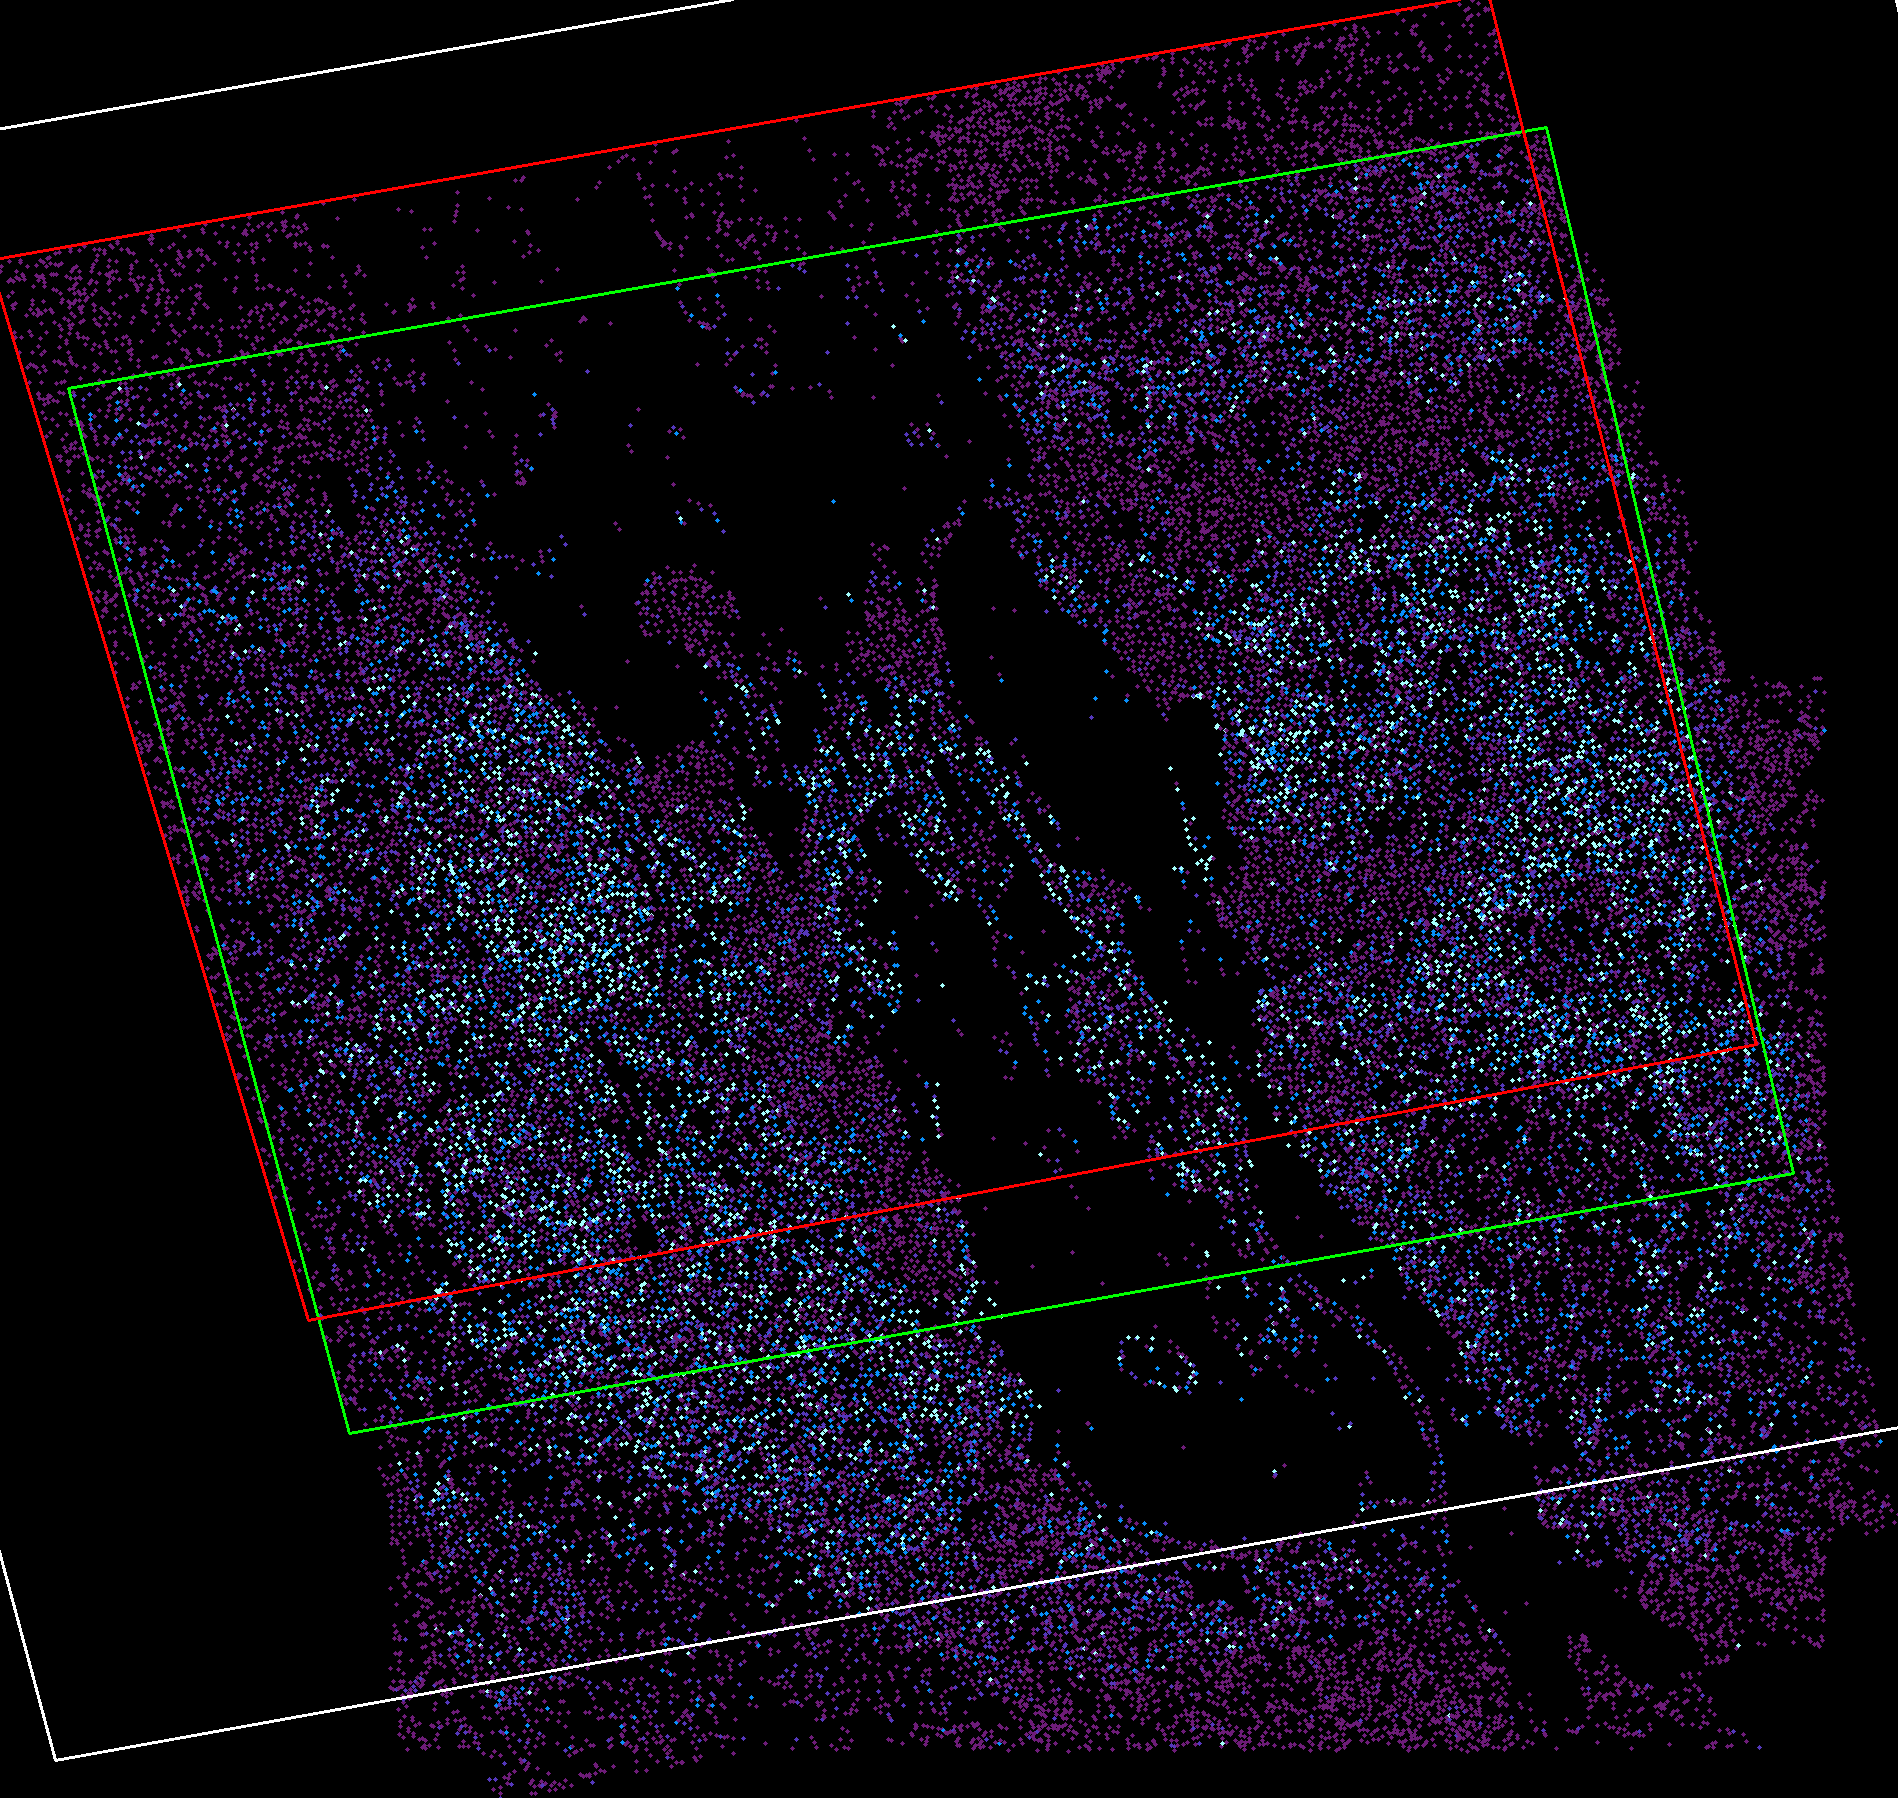
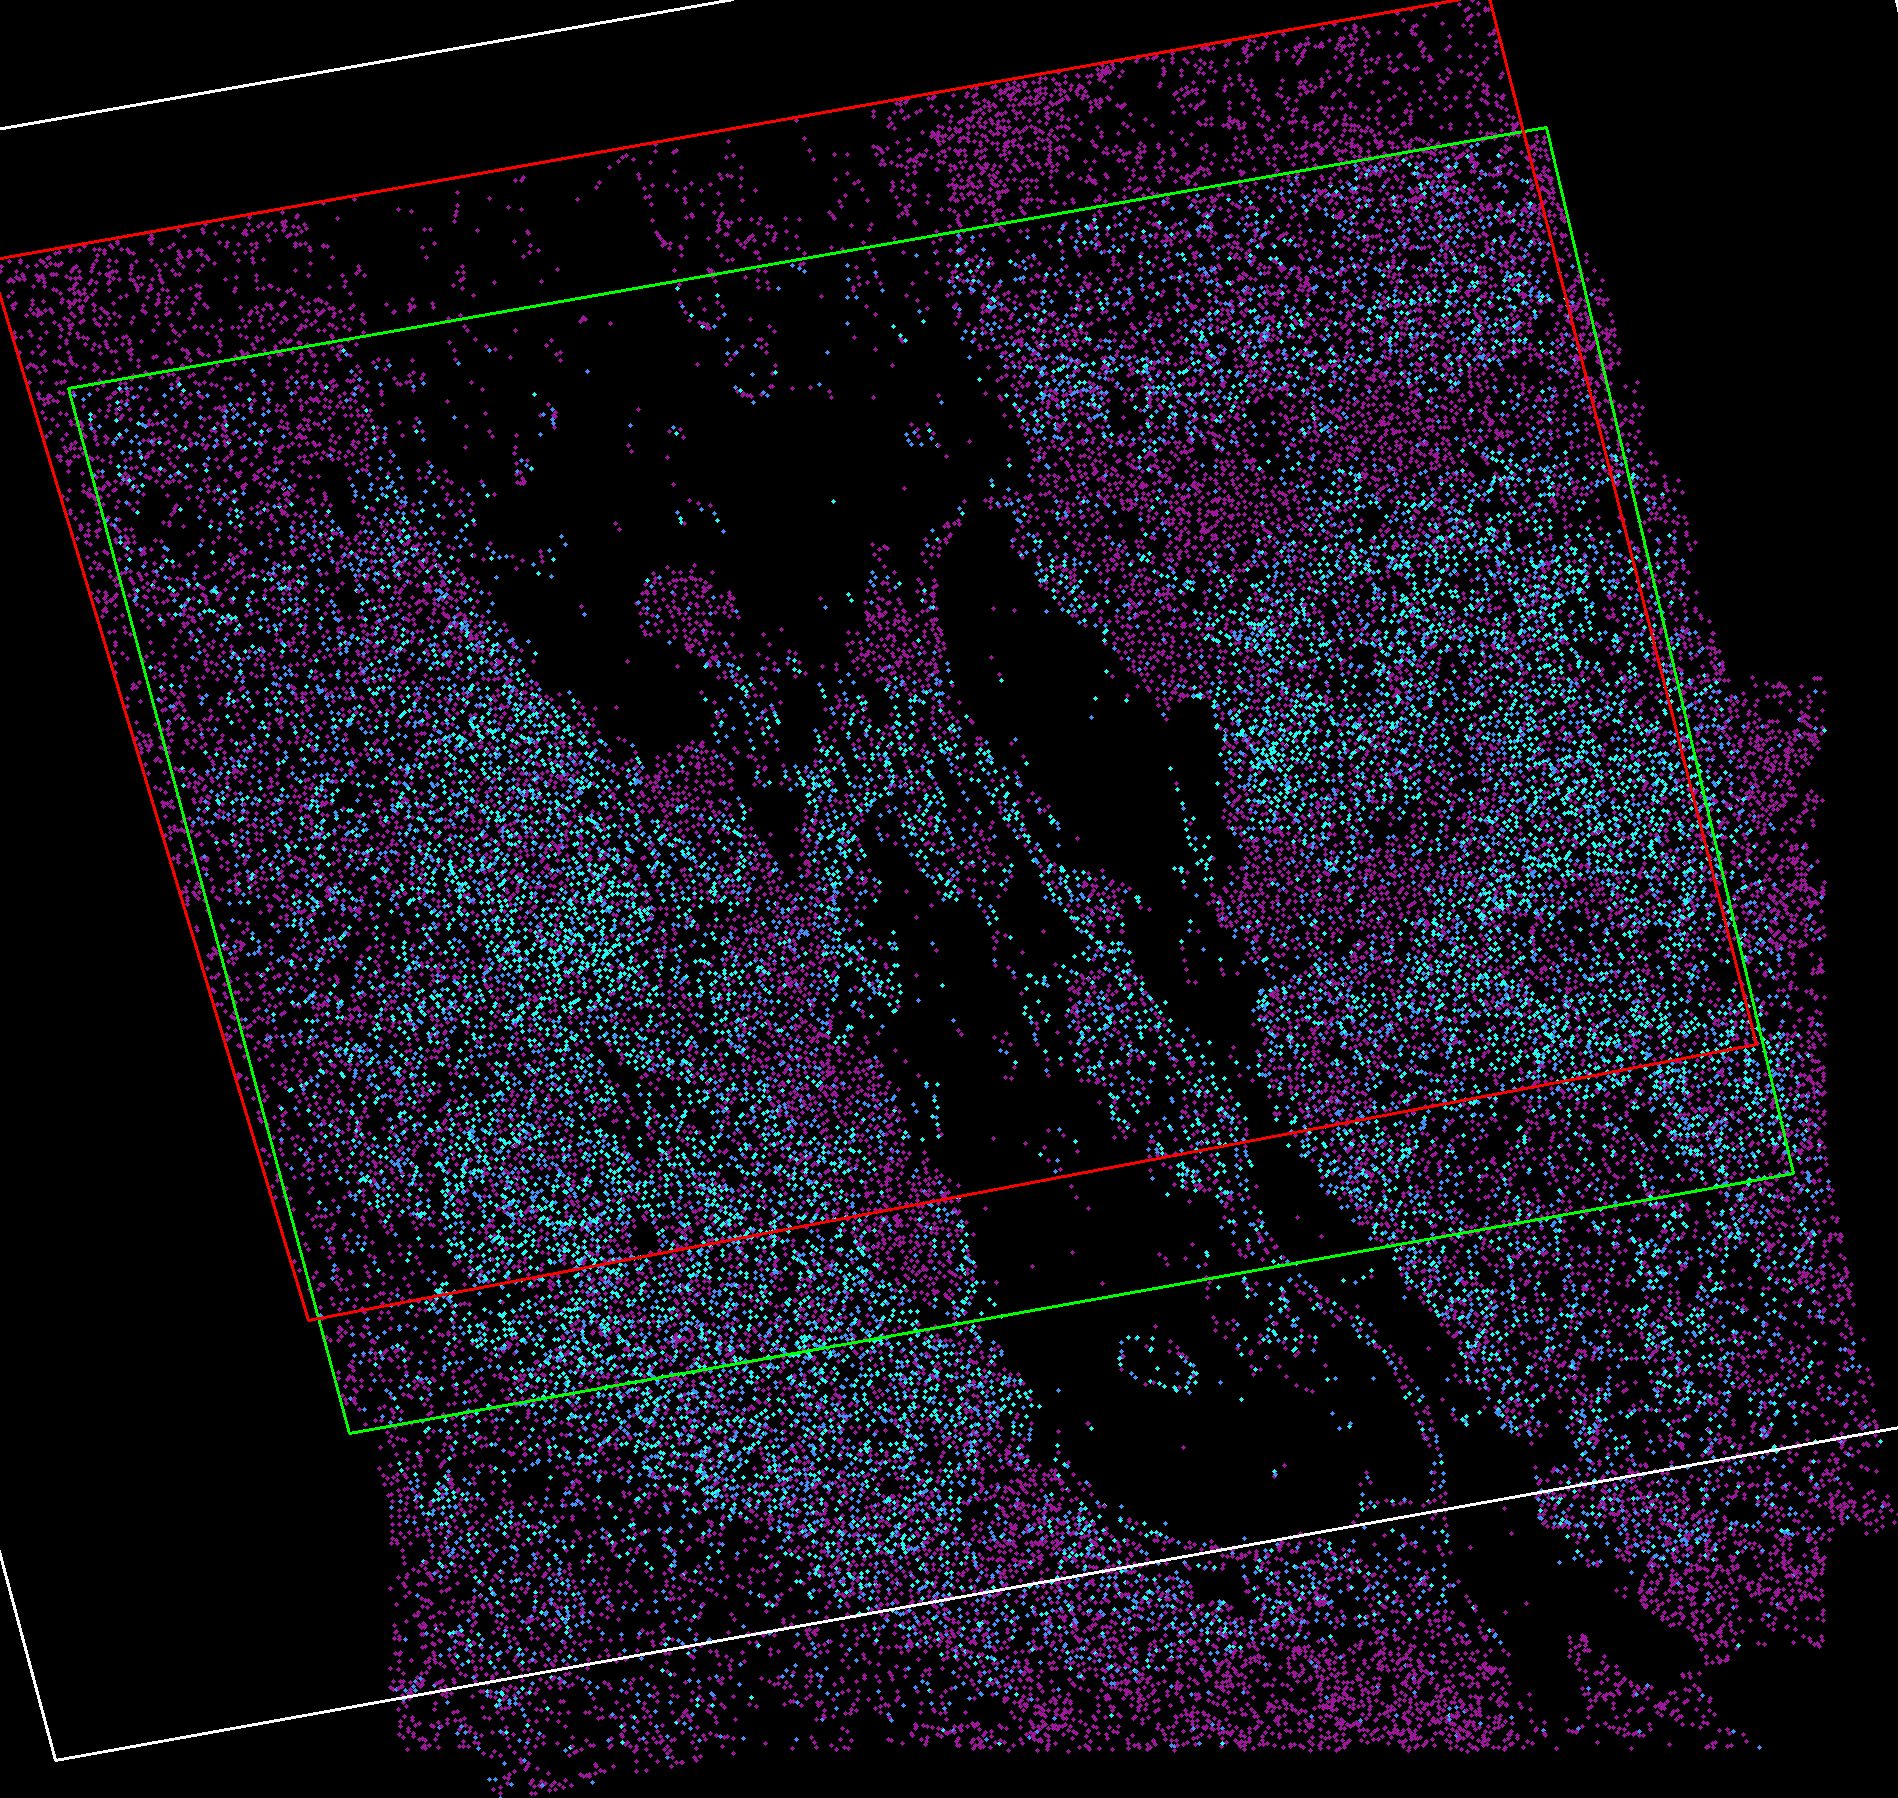
submission commit

diff --git a/ImageStitchingData.py b/ImageStitchingData.py
@@ -3,39 +3,6 @@ import cv2 as cv2
 import os
 import json
 from ImageData import ImageData
-# class ImageData:
-#     def __init__(self, image, image_name, homography_matrix=None):
-#         """
-#         Initializes an ImageData object.
-
-#         :param image: The image (numpy array or other representation).
-#         :param homography_matrix: Homogeneous transformation matrix for this image (default is identity matrix).
-#         :param overall_transform_matrix: Overall transformation matrix (default is identity matrix).
-#         """
-#         self.image = image
-#         self.image_name = image_name
-#         self.gray_image = cv2.cvtColor(image, cv2.COLOR_BGR2GRAY)
-#         self.homography_matrix = homography_matrix if homography_matrix is not None else np.eye(3)
-
-#     def set_homography_matrix(self, matrix):
-#         """
-#         Sets the homography matrix.
-
-#         :param matrix: A 3x3 numpy array representing the new homography matrix.
-#         """
-#         if matrix.shape != (3, 3):
-#             raise ValueError("Homography matrix must be a 3x3 matrix.")
-#         self.homography_matrix = matrix
-
-
-#     def get_homography_matrix(self):
-#         """Returns the homography matrix."""
-#         return self.homography_matrix
-
-
-#     def get_image(self):
-#         """Returns the image."""
-#         return self.image
 
 class ImageStitchingData:
     def __init__(self):

diff --git a/KeypointStorage.py b/KeypointStorage.py
@@ -90,7 +90,7 @@ class KeypointStorage:
                         maximum = g_maximum
                         norm = Normalize(vmin=minimum, vmax=maximum)
                         normalized_reliability = norm(reliability)  # Normalize the reliability value
-                        color = cm.plasma(normalized_reliability)[:3]
+                        color = cm.inferno(normalized_reliability)[:3]
                         color = tuple([int(c * 255) for c in color])
                         self.keypoints_data[idx]["color"] = color
                         
@@ -107,7 +107,7 @@ class KeypointStorage:
                 # normalized_reliability = min(max(reliability / maximum, minimum), 1.0)
                 norm = Normalize(vmin=minimum, vmax=maximum)
                 normalized_reliability = norm(reliability)
-                color = cm.plasma(normalized_reliability)[:3]
+                color = cm.inferno(normalized_reliability)[:3]
                 color = tuple([int(c * 255) for c in color])
                 self.keypoints_data[new_id] = {
                     "coords": kp_coords,
